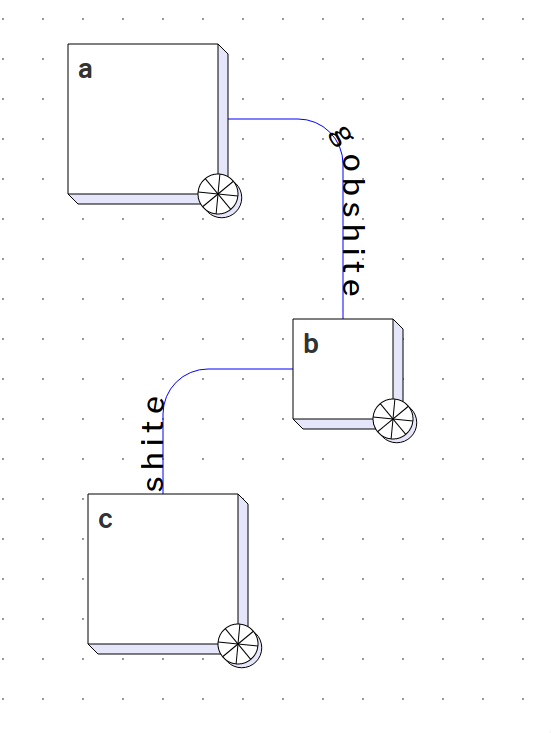
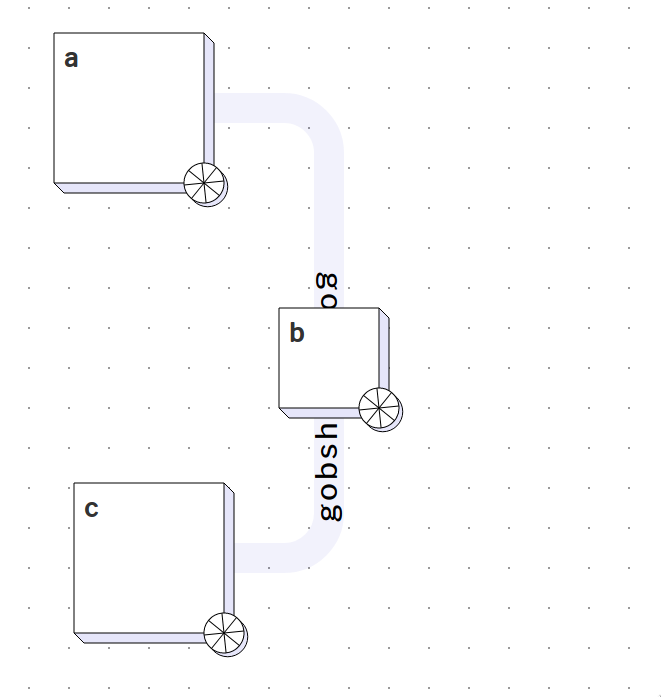
[snapshot]

diff --git a/index.tsx b/index.tsx
@@ -153,18 +153,23 @@ function makeConnector(p1, p2, id, flip = false) {
   const htmlString = ReactDOMServer.renderToStaticMarkup(
     <React.Fragment>
       <path
+        class="textpath"
         id={id}
         d={`M ${p1.x} ${p1.y}
 L  ${pM.x - rx * xFirst} ${pM.y - ry * yFirst}
 A 45, 45, 0, 0, ${sweep}, ${pM.x - rx * yFirst} ${pM.y - ry * xFirst}
 L  ${p2.x} ${p2.y}
 `}
-        stroke="blue"
         fill="transparent"
       />
 
-      <text width="100%" rotate={rotate + "deg"}>
-        <textpath href={"#" + id} startOffset="00px" id="text-path">
+      <text width="100%" rotate={rotate}>
+        <textPath
+          href={"#" + id}
+          startOffset="00px"
+          id="text-path"
+          alignmentBaseline="middle"
+        >
           {word}
           <animate
             attributeName="startOffset"
@@ -172,9 +177,9 @@ L  ${p2.x} ${p2.y}
             to="100%"
             begin="0s"
             dur={`${length / 50}s`}
-            repeatCount="1"
+            repeatCount="indefinite"
           />
-        </textpath>
+        </textPath>
       </text>
     </React.Fragment>
   );
@@ -187,7 +192,7 @@ let p1 = new Two.Vector(200, 200);
 let p2 = new Two.Vector(400, 450);
 let p3 = new Two.Vector(220, 650);
 makeConnector(p1, p2, "1");
-makeConnector(p2, p3, "2");
+makeConnector(p2, p3, "2", true);
 
 makeBox(p1, 150, "a");
 makeBox(p2, 100, "b");

diff --git a/main.css b/main.css
@@ -21,9 +21,13 @@ path {
   /* stroke-width: 40px; */
   /* stroke:red; */
 }
+.textpath {
+  stroke-width: 30px;
+  stroke: rgba(0, 0, 200, 0.05);
+}
 textPath {
   /* font-size: 0.4em; */
-  letter-spacing: 0.2em;
+  letter-spacing: 0.1em;
 }
 h1 {
   font-size: 25px;
